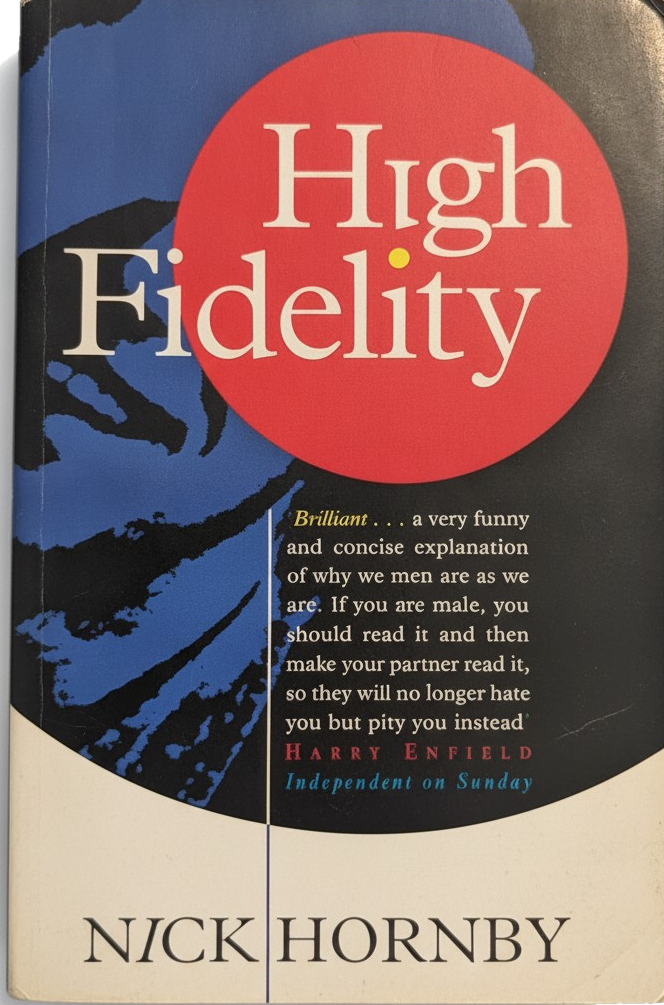
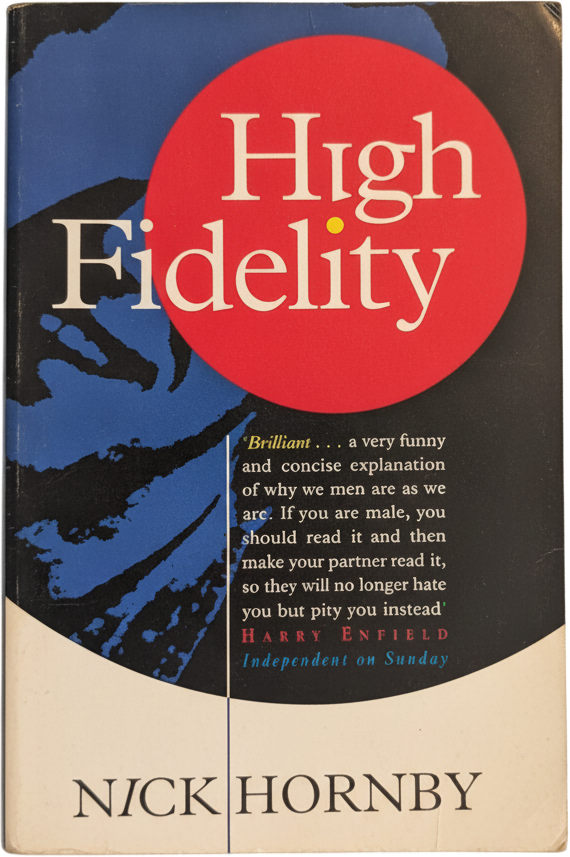
Book cut-outs keep their real outline; tallest spine fills 90% of the shelf gap
Regenerated without shadows and segmented with rembg, so covers keep worn corners and
slight tilts instead of being cropped square. Each plank scales its spines so the tallest
stands at 90% of the gap to the plank above.

diff --git a/shelf.js b/shelf.js
@@ -106,9 +106,16 @@
     function fitSpines() {
       root.querySelectorAll('.spines').forEach(el => {
         el.style.setProperty('--fit', '1em');
-        let f = 1;
-        const total = () => [...el.children].reduce((w, c) => w + c.offsetWidth, 0) + parseFloat(getComputedStyle(el).columnGap || 0) * Math.max(0, el.children.length - 1);
-        while (f > .45 && total() > el.clientWidth + 1) { f -= .03; el.style.setProperty('--fit', f.toFixed(2) + 'em'); }
+        const books = [...el.children].filter(c => c.classList.contains('book'));
+        if (!books.length) return;
+        // the tallest book stands at 90% of the gap up to the plank above
+        const plank = el.closest('.plank'), above = plank.previousElementSibling;
+        const gap = above ? el.getBoundingClientRect().bottom - above.getBoundingClientRect().bottom : 0;
+        const tallest = Math.max(...books.map(c => c.offsetHeight));
+        let f = gap > 0 && tallest > 0 ? Math.min(2.5, (gap * .9) / tallest) : 1;
+        el.style.setProperty('--fit', f.toFixed(3) + 'em');
+        const total = () => books.reduce((w, c) => w + c.offsetWidth, 0) + parseFloat(getComputedStyle(el).columnGap || 0) * Math.max(0, books.length - 1);
+        while (f > .45 && total() > el.clientWidth + 1) { f -= .03; el.style.setProperty('--fit', f.toFixed(3) + 'em'); }
       });
     }
     addEventListener('resize', fitSpines);

diff --git a/books.html b/books.html
@@ -14,7 +14,7 @@
 <link rel="preconnect" href="https://fonts.googleapis.com">
 <link rel="preconnect" href="https://fonts.gstatic.com" crossorigin>
 <link href="https://fonts.googleapis.com/css2?family=IBM+Plex+Mono:ital,wght@0,400;0,500;0,600;1,400&family=Permanent+Marker&family=Reenie+Beanie&family=Courier+Prime:wght@400;700&family=Archivo+Narrow:wght@700&family=Archivo:wght@600;700&family=Bebas+Neue&family=Playfair+Display:wght@700&family=Caveat:wght@700&family=Libre+Caslon+Text:ital,wght@0,400;0,700;1,400&display=swap" rel="stylesheet">
-<link rel="stylesheet" href="shelf.css?v=5">
+<link rel="stylesheet" href="shelf.css?v=6">
 <style>
 :root {
   --bg: #c9955c;
@@ -99,7 +99,7 @@ body {
     <div class="opened" id="opened" hidden></div>
   </section>
 </main>
-<script src="shelf.js?v=5"></script>
+<script src="shelf.js?v=6"></script>
 <script>
 fetch('books.json', { cache: 'no-store' }).then(r => r.ok ? r.json() : Promise.reject()).then(d => {
   renderBookshelf(document.querySelector('.books'), d, { perPlank: 14 });

diff --git a/index.html b/index.html
@@ -27,7 +27,7 @@
 <link rel="preconnect" href="https://fonts.googleapis.com">
 <link rel="preconnect" href="https://fonts.gstatic.com" crossorigin>
 <link href="https://fonts.googleapis.com/css2?family=IBM+Plex+Mono:ital,wght@0,400;0,500;0,600;1,400&family=Permanent+Marker&family=Reenie+Beanie&family=Courier+Prime:wght@400;700&family=Archivo+Narrow:wght@700&family=Archivo:wght@600;700&family=Bebas+Neue&family=Playfair+Display:wght@700&family=Caveat:wght@700&family=Libre+Caslon+Text:ital,wght@0,400;0,700;1,400&display=swap" rel="stylesheet">
-<link rel="stylesheet" href="shelf.css?v=5">
+<link rel="stylesheet" href="shelf.css?v=6">
 <style>
 :root {
   --bg: #c9955c;
@@ -970,7 +970,7 @@ body {
 })();
 </script>
 
-<script src="shelf.js?v=5"></script>
+<script src="shelf.js?v=6"></script>
 <script>
 (() => {
   const telly = document.getElementById('telly');

diff --git a/gemini-cutouts.py b/gemini-cutouts.py
@@ -1,5 +1,5 @@
 #!/usr/bin/env python3
-"""Turn hand-held photos of books into clean cut-outs with Gemini, then crop to the book's edges.
+"""Turn hand-held photos of books into clean cut-outs with Gemini, then remove the backdrop.
 
   GEMINI_API_KEY=... python3 gemini-cutouts.py photos/ manifest.json
 
@@ -36,32 +36,44 @@ def generate(path, kind):
     for attempt in range(3):
         try:
             with urllib.request.urlopen(req, timeout=180) as r: res = json.load(r)
-            for part in res["candidates"][0]["content"]["parts"]:
+            cand = (res.get("candidates") or [{}])[0]
+            for part in cand.get("content", {}).get("parts", []):
                 if "inlineData" in part: return base64.b64decode(part["inlineData"]["data"])
-            raise RuntimeError("no image in response: " + json.dumps(res)[:300])
+            raise RuntimeError("no image in response (" + str(cand.get("finishReason")) + "): " + json.dumps(res)[:200])
         except Exception as e:
             if attempt == 2: raise
             time.sleep(4 * (attempt + 1))
 
-def trim_rect(im, frac=0.85):
-    """Crop to the book's rectangle: rows and columns where most pixels are clearly not the
-    white backdrop or its soft shadow. A straight crop leaves any shadow outside."""
-    rgb = im.convert('RGB'); W, H = rgb.size; px = rgb.load()
-    def strong(x, y):
-        r, g, b = px[x, y]; mx, mn = max(r, g, b), min(r, g, b)
-        return (mx < 205) or (mx - mn > 12)          # darker than a soft shadow, or has any colour (shadows are neutral)
-    cols = [sum(1 for y in range(0, H, 2) if strong(x, y)) for x in range(W)]
-    rows = [sum(1 for x in range(0, W, 2) if strong(x, y)) for y in range(H)]
-    cx = [x for x, c in enumerate(cols) if c >= max(cols) * frac]; ry = [y for y, c in enumerate(rows) if c >= max(rows) * frac]
-    return rgb.crop((min(cx) + 3, min(ry) + 3, max(cx) - 2, max(ry) - 2)).convert('RGBA')
+def cut_out(im):
+    """Remove the backdrop, keeping the book's real outline. rembg (pip install "rembg[cpu]") does
+    this cleanly on a flat white background; without it, near-white connected to the border is keyed."""
+    im = im.convert('RGBA')
+    try:
+        from rembg import remove
+        out = remove(im, alpha_matting=True, alpha_matting_foreground_threshold=240, alpha_matting_background_threshold=20, alpha_matting_erode_size=4)
+    except ImportError:
+        from PIL import ImageDraw
+        rgb = im.convert('RGB'); W, H = rgb.size; work = rgb.copy(); KEYC = (255, 0, 255)
+        for seed in [(2, 2), (W-3, 2), (2, H-3), (W-3, H-3), (W//2, 2), (W//2, H-3), (2, H//2), (W-3, H//2)]:
+            if sum(work.getpixel(seed)) > 690: ImageDraw.floodfill(work, seed, KEYC, thresh=24)
+        wp = work.load(); a = Image.new('L', (W, H), 255); ap = a.load()
+        for y in range(H):
+            for x in range(W):
+                if wp[x, y] == KEYC: ap[x, y] = 0
+        a = a.filter(ImageFilter.MinFilter(3)).filter(ImageFilter.GaussianBlur(0.7)); out = rgb.convert('RGBA'); out.putalpha(a)
+    bbox = out.split()[3].point(lambda v: 255 if v > 8 else 0).getbbox()
+    return out.crop(bbox)
 
 def run(item):
     name, meta = item; kind, slug = meta['kind'], meta['slug']
     png = generate(photos / name, kind)
     import io; im = Image.open(io.BytesIO(png))
-    cut = trim_rect(im)
+    cut = cut_out(im)
     dest = ROOT / ('covers' if kind == 'front' else 'spines') / f'{slug}.png'; cut.save(dest)
     return f"{slug:<28} {kind:<6} {cut.size[0]}x{cut.size[1]}  → {dest.relative_to(ROOT)}"
 
+def safe(item):
+    try: return run(item)
+    except Exception as e: return f"FAILED {item[1]['slug']} {item[1]['kind']}: {e}"
 with concurrent.futures.ThreadPoolExecutor(4) as ex:
-    for line in ex.map(run, manifest.items()): print(line)
+    for line in ex.map(safe, manifest.items()): print(line, flush=True)
